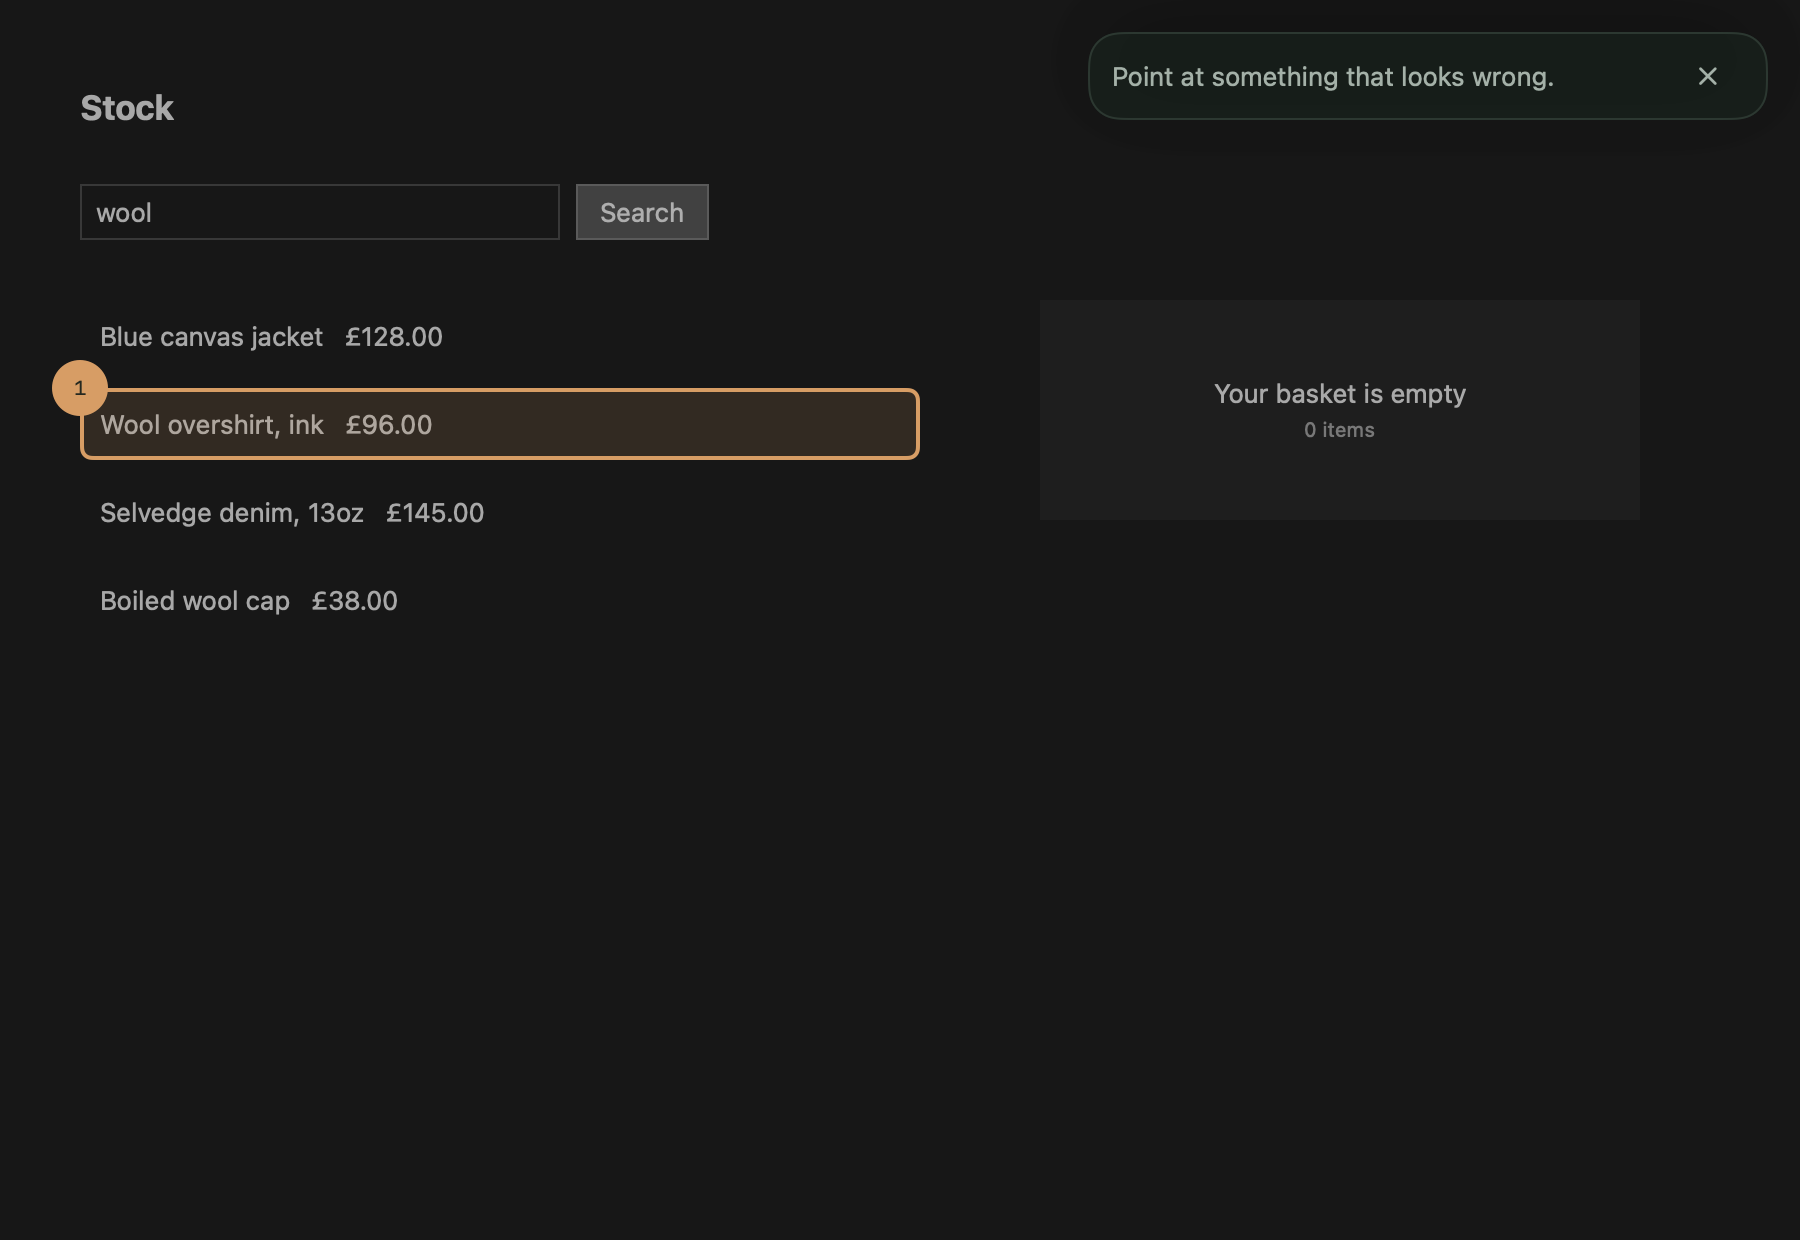
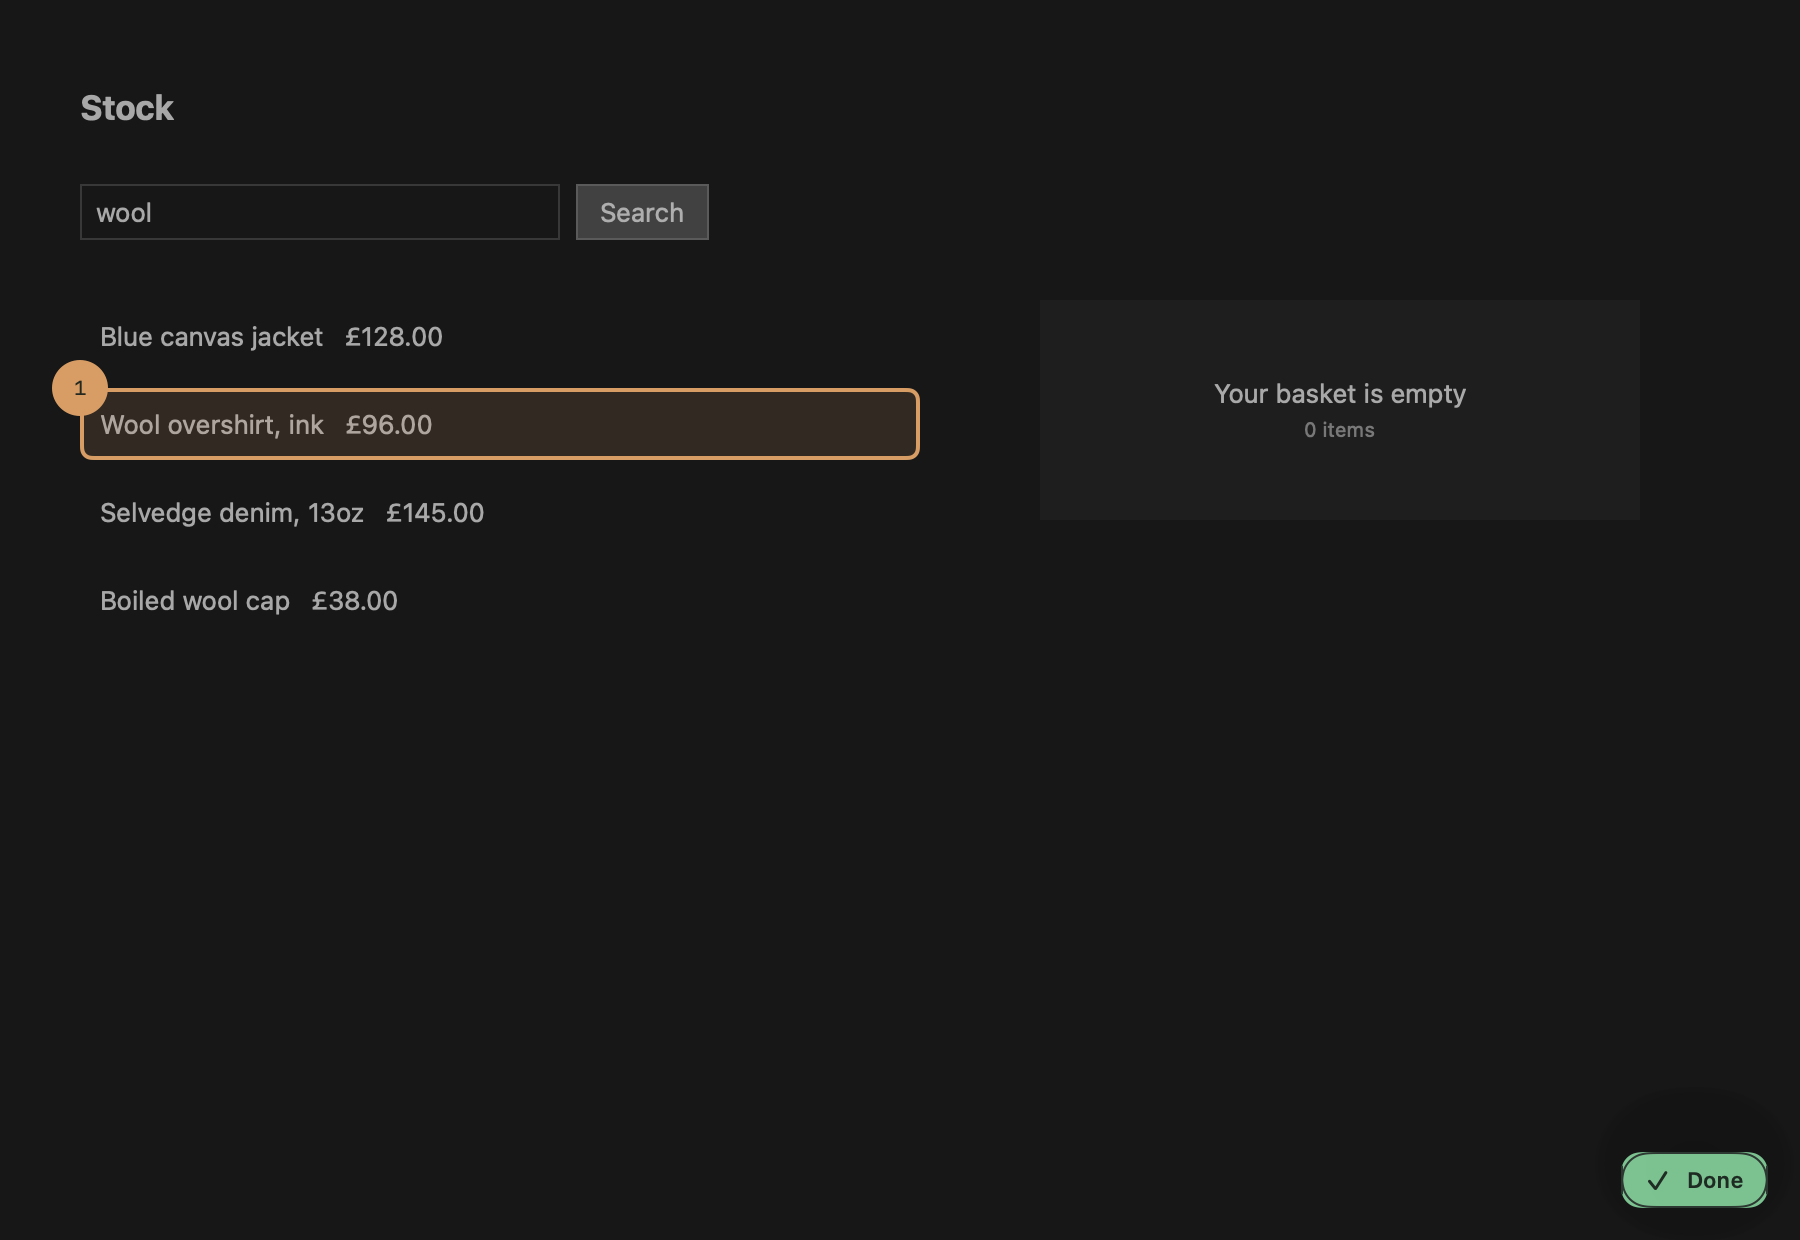
fix: the status bar made everything under it unannotatable
Reported: "that element with text 'Point at something that looks wrong' is
static and covers some elements I wanted to highlight that I can't".

Once that bar registered an interactive region it stopped being merely in the
way and started taking every touch that landed on it. Anything underneath was
unpickable - the exact thing OverlayRoot's own comment said must never happen.

So no tray is drawn at all while picking or commenting. The bar only ever
existed in those modes, so it is gone entirely, and with it the
compact-vs-full split that was a workaround for the tray always being present.

That alone would have stranded someone: the way out was the tray's xmark, and
on iOS the pill only exists in .off. So the enter/exit control lands with it -
one control, one corner, reading Annotate in .off and Done plus the count
otherwise. The xmark is gone, because two ways out in two corners was the
original complaint. macOS gets the same control; it had no visible exit at all
once the xmark went.

Verified on an iPad: a point where the bar used to sit is in no interactive
region and resolves to a real element with a crop. That scene is the regression
guard - a unit test here would assert on regions the view layer populates and
would pass vacuously.

Changed region(s): [[0.6222, 0.0306, 0.8711, 0.0919], [0.9022, 0.9194, 0.9956, 0.9806]]

diff --git a/Sources/LoupeUI/OverlayRoot.swift b/Sources/LoupeUI/OverlayRoot.swift
@@ -32,6 +32,34 @@ public struct OverlayRoot: View {
     }
 
     public var body: some View {
+        ZStack(alignment: .bottomTrailing) {
+            chrome.opacity(model.mode.isVisible ? 1 : 0)
+
+            // Outside the opacity gate on purpose: in `.off` the overlay draws
+            // nothing, and the way in has to still be there.
+            //
+            // On a Mac the way in is the hotkey, so the control appears only once
+            // annotate mode is open - but it does appear, because the tray's xmark
+            // is gone and a mode you cannot see your way out of is worse than the
+            // duplicate control was.
+            if showsControl {
+                enterExitControl
+                    .padding(LoupeTheme.Space.lg)
+                    .padding(.bottom, safeArea.bottom)
+                    .padding(.trailing, safeArea.trailing)
+            }
+        }
+    }
+
+    private var showsControl: Bool {
+        #if canImport(UIKit)
+        return true
+        #else
+        return model.mode != .off
+        #endif
+    }
+
+    private var chrome: some View {
         GeometryReader { geometry in
             ZStack(alignment: .topLeading) {
                 if model.mode.swallowsInput {
@@ -73,7 +101,40 @@ public struct OverlayRoot: View {
                                                   reduceMotion: reduceMotion),
                        value: model.mode)
         }
-        .opacity(model.mode.isVisible ? 1 : 0)
+    }
+
+    /// One control, in one place, that means "annotate mode" both ways.
+    ///
+    /// It used to be two objects in two corners: a pill bottom-trailing to get in,
+    /// an xmark on the tray top-trailing to get out. Nothing said the second was the
+    /// way out of the first, and the pill vanished the moment you were in. Someone
+    /// who found their way in can now leave by looking where they came from.
+    @ViewBuilder
+    private var enterExitControl: some View {
+        let isOff = model.mode == .off
+        Button {
+            model.toggleAnnotating()
+        } label: {
+            Label(isOff ? "Annotate" : exitTitle, systemImage: isOff ? "scope" : "checkmark")
+        }
+        .buttonStyle(LoupeButtonStyle(kind: .primary))
+        .loupePanel()
+        .accessibilityLabel(isOff ? "Start annotating" : exitAccessibilityLabel)
+        // Small, and the only way out - so it must never be one of the touches the
+        // overlay passes through. See `InteractiveRegions.swift`.
+        .loupeInteractive()
+    }
+
+    private var exitTitle: String {
+        model.annotations.isEmpty ? "Done" : "Done · \(model.annotations.count)"
+    }
+
+    private var exitAccessibilityLabel: String {
+        switch model.annotations.count {
+        case 0: return "Finish annotating"
+        case 1: return "Finish annotating, 1 note"
+        case let n: return "Finish annotating, \(n) notes"
+        }
     }
 
     @ViewBuilder
@@ -99,14 +160,22 @@ public struct OverlayRoot: View {
 
     @ViewBuilder
     private func tray(in size: CGSize, insets: EdgeInsets) -> some View {
-        // The full tray belongs to browsing. While you are picking it would cover
-        // part of the app, and anything under it could not be pointed at - which is
-        // the one thing this tool must never take away.
+        // No tray at all while picking or commenting. The one-line bar that used to
+        // sit here was not merely visually in the way: once it registered an
+        // interactive region it *took* every touch that landed on it, so anything
+        // underneath became unpickable - the exact thing this file's own comment
+        // said must never happen. Reported by someone who could not annotate the
+        // trailing edge of his own app.
+        if case .browsing = model.mode {
+            trayPanel(in: size, insets: insets)
+        }
+    }
+
+    @ViewBuilder
+    private func trayPanel(in size: CGSize, insets: EdgeInsets) -> some View {
         let panel = TrayPanel(model: model,
-                              compact: model.mode != .browsing,
                               sheet: isCompact,
-                              safeBottom: insets.bottom,
-                              onClose: { model.endAnnotating() })
+                              safeBottom: insets.bottom)
             .loupeInteractive()
 
         if isCompact {

diff --git a/Sources/LoupeUI/TrayPanel.swift b/Sources/LoupeUI/TrayPanel.swift
@@ -23,9 +23,6 @@ extension Image {
 /// centre is where the app being annotated lives.
 struct TrayPanel: View {
     @ObservedObject var model: OverlayModel
-    /// One line rather than a panel. True while picking, so the page underneath
-    /// stays reachable, and whenever there is nothing to show yet.
-    var compact: Bool = false
     /// Rendered as a bottom sheet: full width, flush with the bottom edge. What
     /// `DESIGN.md` asks for on a phone, and the reason the panel is pushed down by
     /// its own corner radius - `UnevenRoundedRectangle` would say it better and is
@@ -34,51 +31,17 @@ struct TrayPanel: View {
     /// The home indicator's height. A sheet flush with the edge has to keep it clear
     /// itself, since nothing outside is padding it any more.
     var safeBottom: CGFloat = 0
-    var onClose: () -> Void
 
     @FocusState private var sendFocused: Bool
     @Environment(\.accessibilityReduceMotion) private var reduceMotion
 
     static let width: CGFloat = 340
 
-    var body: some View {
-        // A full-height panel saying "0 notes" and offering to send them would also
-        // be competing with the popover for attention while someone types into it.
-        if compact || model.annotations.isEmpty {
-            // The one-line bar stays a floating pill even on a phone: it is a status
-            // line, not a surface, and a full-width sheet saying "0 notes" would be
-            // covering the app for no reason.
-            bar.padding(.bottom, sheet ? safeBottom + LoupeTheme.Radius.panel : 0)
-        } else {
-            full
-        }
-    }
-
-    private var bar: some View {
-        HStack(spacing: LoupeTheme.Space.sm) {
-            Text(barTitle)
-                .font(LoupeTheme.Typography.body)
-                .foregroundStyle(LoupeTheme.Colors.inkSoft.color)
-            Spacer()
-            if !model.annotations.isEmpty, model.mode == .picking(hover: nil) || model.mode == .browsing {
-                Button("Review") { model.review() }
-                    .buttonStyle(LoupeButtonStyle(kind: .quiet))
-            }
-            closeButton
-        }
-        .padding(.horizontal, LoupeTheme.Space.md)
-        .padding(.vertical, LoupeTheme.Space.sm)
-        .frame(width: Self.width)
-        .loupePanel()
-    }
-
-    private var barTitle: String {
-        switch model.annotations.count {
-        case 0: return "Point at something that looks wrong."
-        case 1: return "1 note · point at another"
-        case let n: return "\(n) notes · point at another"
-        }
-    }
+    // One shape now. The one-line bar it used to fall back to is gone: it only ever
+    // rendered while picking or commenting, and nothing draws a tray in those modes
+    // any more, because a bar that takes touches makes whatever is under it
+    // unpickable.
+    var body: some View { full }
 
     private var full: some View {
         VStack(alignment: .leading, spacing: 0) {
@@ -121,20 +84,10 @@ struct TrayPanel: View {
             Button("Pick another") { model.resumePicking() }
                 .buttonStyle(LoupeButtonStyle(kind: .quiet))
                 .disabled(model.mode != .browsing)
-            closeButton
         }
         .padding(LoupeTheme.Space.md)
     }
 
-    private var closeButton: some View {
-        Button {
-            onClose()
-        } label: {
-            Image(systemName: "xmark")
-        }
-        .buttonStyle(LoupeButtonStyle(kind: .quiet))
-        .accessibilityLabel("Leave annotate mode")
-    }
 
     @ViewBuilder
     private var footer: some View {

diff --git a/Sources/LoupeUI/OverlayWindow.swift b/Sources/LoupeUI/OverlayWindow.swift
@@ -583,26 +583,11 @@ private struct OverlayRootWithPill: View {
                     )
             }
 
+            // The enter/exit control lives inside `OverlayRoot` so both platforms
+            // get the same one in the same place.
             OverlayRoot(model: model, safeArea: safeArea)
 
             SafeAreaReader { safeArea = $0 }
-
-            if model.mode == .off {
-                Button {
-                    model.beginAnnotating()
-                } label: {
-                    Label("Annotate", systemImage: "scope")
-                }
-                .buttonStyle(LoupeButtonStyle(kind: .primary))
-                .loupePanel()
-                .padding(LoupeTheme.Space.lg)
-                // The overlay ignores the safe area, so without this the pill sits
-                // in the home indicator's space.
-                .padding(.bottom, safeArea.bottom)
-                .padding(.trailing, safeArea.trailing)
-                .accessibilityLabel("Start annotating")
-                .loupeInteractive()
-            }
         }
         .onPreferenceChange(InteractiveRegionsKey.self) { regions in
             MainActor.assumeIsolated { model.interactiveRegions = regions }

diff --git a/Examples/LoupeDemo/Sources/LoupeDemo/DemoApp_iOS.swift b/Examples/LoupeDemo/Sources/LoupeDemo/DemoApp_iOS.swift
@@ -142,6 +142,18 @@ enum DemoScene {
                     }
                 }
 
+                // The bar used to sit top-trailing and swallow every touch on it.
+                // Anything under it was unpickable, which is what got reported.
+                if scene == "occlusion" {
+                    let underTheOldBar = CGPoint(x: size.width * 0.77,
+                                                 y: size.height * 0.06)
+                    let regions = model.interactiveRegions
+                    print("LOUPE-OCCLUSION regions=\(regions)")
+                    let blocked = regions.contains { $0.contains(underTheOldBar) }
+                    print("LOUPE-OCCLUSION point \(underTheOldBar) blocked=\(blocked)")
+                    report(at: underTheOldBar, in: window, label: "under the old bar")
+                }
+
                 if scene == "hover" || scene == "pick" || scene == "tray" {
                     report(at: row, in: window, label: "row")
                     pick(at: row, in: window, model: model)

diff --git a/AGENTS.md b/AGENTS.md
@@ -28,6 +28,12 @@ contract: additive changes only, no breaking renames without a major.
 - Visible UI follows `DESIGN.md`. A new token goes in that file **and** `docs/tokens.json`
   in the same change, then `cd web && npm run sync-tokens`. A token that means two things
   on two platforms is worse than no token at all, and CI fails on the drift.
+- **Nothing Loupe draws may sit over the app while picking.** Anything with a
+  `.loupeInteractive()` region *takes* the touches that land on it, so a panel in the
+  way is not merely ugly - whatever is under it cannot be annotated, which is the one
+  thing this tool must never take away. `scene=occlusion` is the guard: it asserts a
+  point where chrome used to be is not inside any interactive region and still
+  resolves to a real element.
 - Two gestures, not one: a tap picks an element, a drag picks a region. A region is a
   first-class answer (`element.kind: "region"`), not a failure - a gap between two rows
   is real feedback and no view corresponds to it. On the web a region carries no crop:
@@ -62,7 +68,8 @@ contract: additive changes only, no breaking renames without a major.
   scene hook, which is the only way those states are ever seen:
   `cd Examples/LoupeDemoApp && xcodegen generate && xcodebuild -scheme LoupeDemo ...`,
   then `xcrun simctl launch --console-pty <device> dev.loupe.demo scene=tray`
-  (`hover`, `pick`, `tray`, `drag`, `dragging`, `key`, `queue`, `drain`).
+  (`hover`, `pick`, `tray`, `drag`, `dragging`, `key`, `queue`, `drain`, `repick`,
+  `occlusion`).
   **A scene that must observe the mode it starts in has to run before the shared
   `beginAnnotating()`**, or it measures the wrong one - that cost three wrong fixes to
   a bug that was never there. `simctl terminate` often does not take: `uninstall` and
